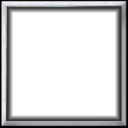
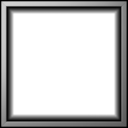
1.1.5

Changed region(s): [[0.0, 0.0, 1.0, 1.0]]

diff --git a/vars/global_var.py b/vars/global_var.py
@@ -1,5 +1,5 @@
 PROGRAM_NAME="Reforgerator"
-PROGRAM_VERSION="1.1.4"
+PROGRAM_VERSION="1.1.5"
 PROGRAM_AUTHOR="Makkad"
 PROGRAM_FULLNAME=PROGRAM_NAME+" "+PROGRAM_VERSION+" by "+PROGRAM_AUTHOR
 DIRS = {

diff --git a/README.md b/README.md
@@ -1,12 +1,12 @@
 # REFORGERATOR
 
 **Date:** `06, May 2025`  
-**Version:** `1.1.4`  
+**Version:** `1.1.5`  
 **License:** MIT License (See [LICENSE](LICENSE) file)  
 **Author:** `Makkad`  
 
 **Download the latest .exe build:** 
-- Link 1 [Reforgerator_1.1.4.zip](https://xgm.guru/p/wc3/reforgerator/download) (archive password: makkad)
+- Link 1 [Reforgerator_1.1.5.zip](https://xgm.guru/p/wc3/reforgerator/download) (archive password: makkad)
 
 ---
 
@@ -197,6 +197,9 @@ Ensure your `.ini` files follow this structure so that custom frames are correct
 
 ### 3.1. CHANGELOG
 
+#### 1.1.5 - 07, May 2025
+The frame BTN-classic-sd-256 by author Aldeia is now used by default for BTN frames in the Classic style at both 128x128 and 256x256 sizes. The previous Classic HD 2.0 frame remains available via custom frame selection.
+
 #### 1.1.4 - 06, May 2025
 - Added a custom frame BTN-classic-sd-256 by author Aldeia, replicating the style of the BTN Classic SD frame, but in a resolution of 256x256 (which differs from the currently used 256x256 frames that use the Classic HD style).
 
@@ -229,7 +232,7 @@ Ensure your `.ini` files follow this structure so that custom frames are correct
 ### 3.2. CREDITS
 
 🎖 **Thanks to:**  
-`RvzerBro (testing), LeP (jpgwrapper), KoMaTo3 (py.texture.compress), mdboom (pytoshop), Barorque (IconTemplateReforged.psd), Shadow Daemon (for the frame templates from Button Manager and inspiration), Aldeia (BTNCSD frame)`
+`RvzerBro (testing), LeP (jpgwrapper), KoMaTo3 (py.texture.compress), mdboom (pytoshop), Barorque (IconTemplateReforged.psd), Shadow Daemon (for the frame templates from Button Manager and inspiration), Aldeia (Classic-BTN)`
 
 ---
 
